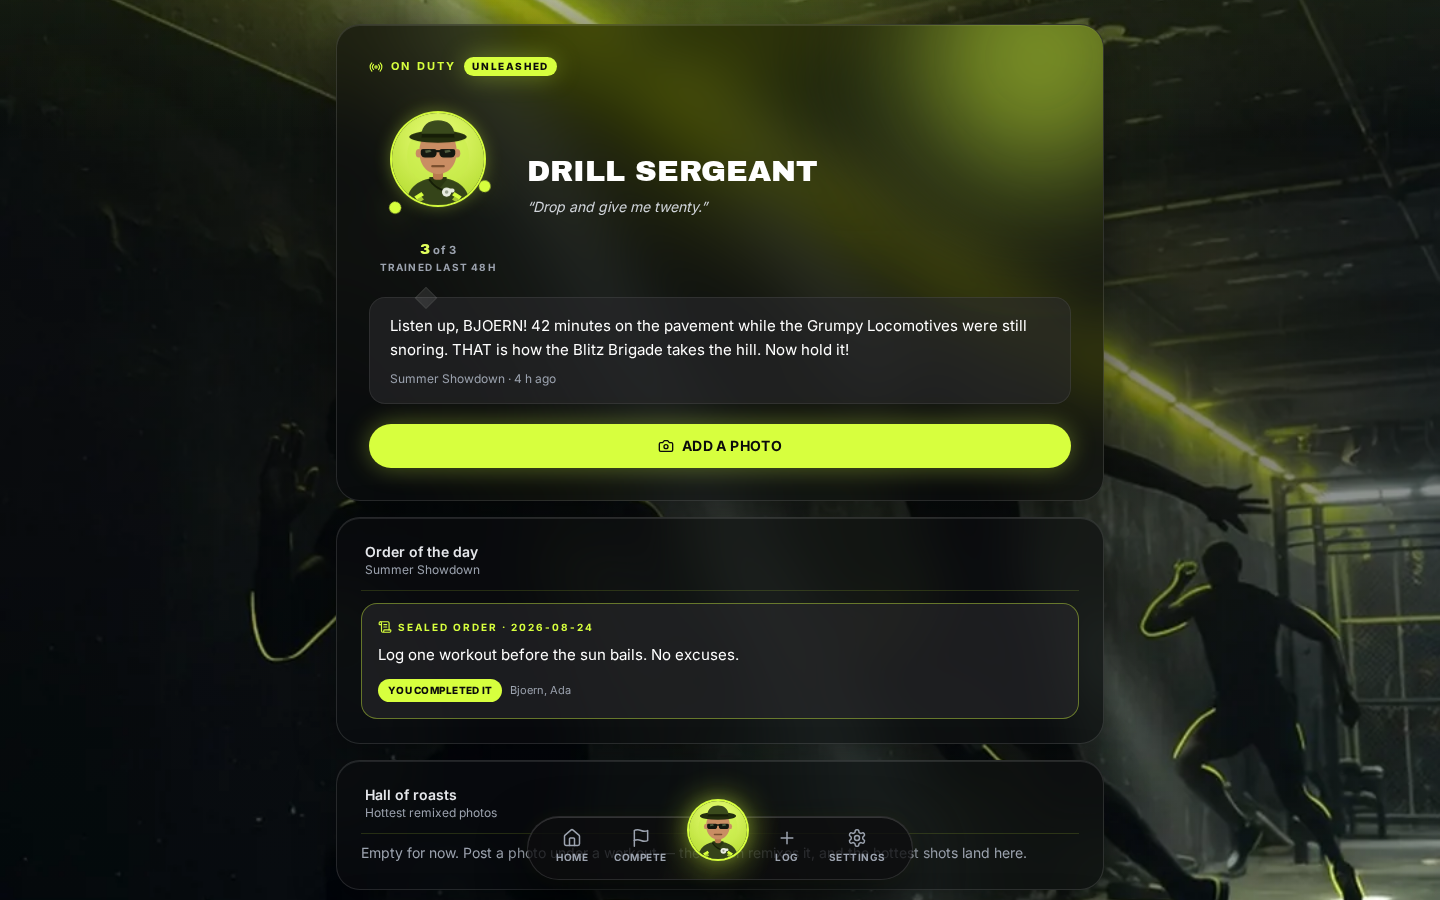
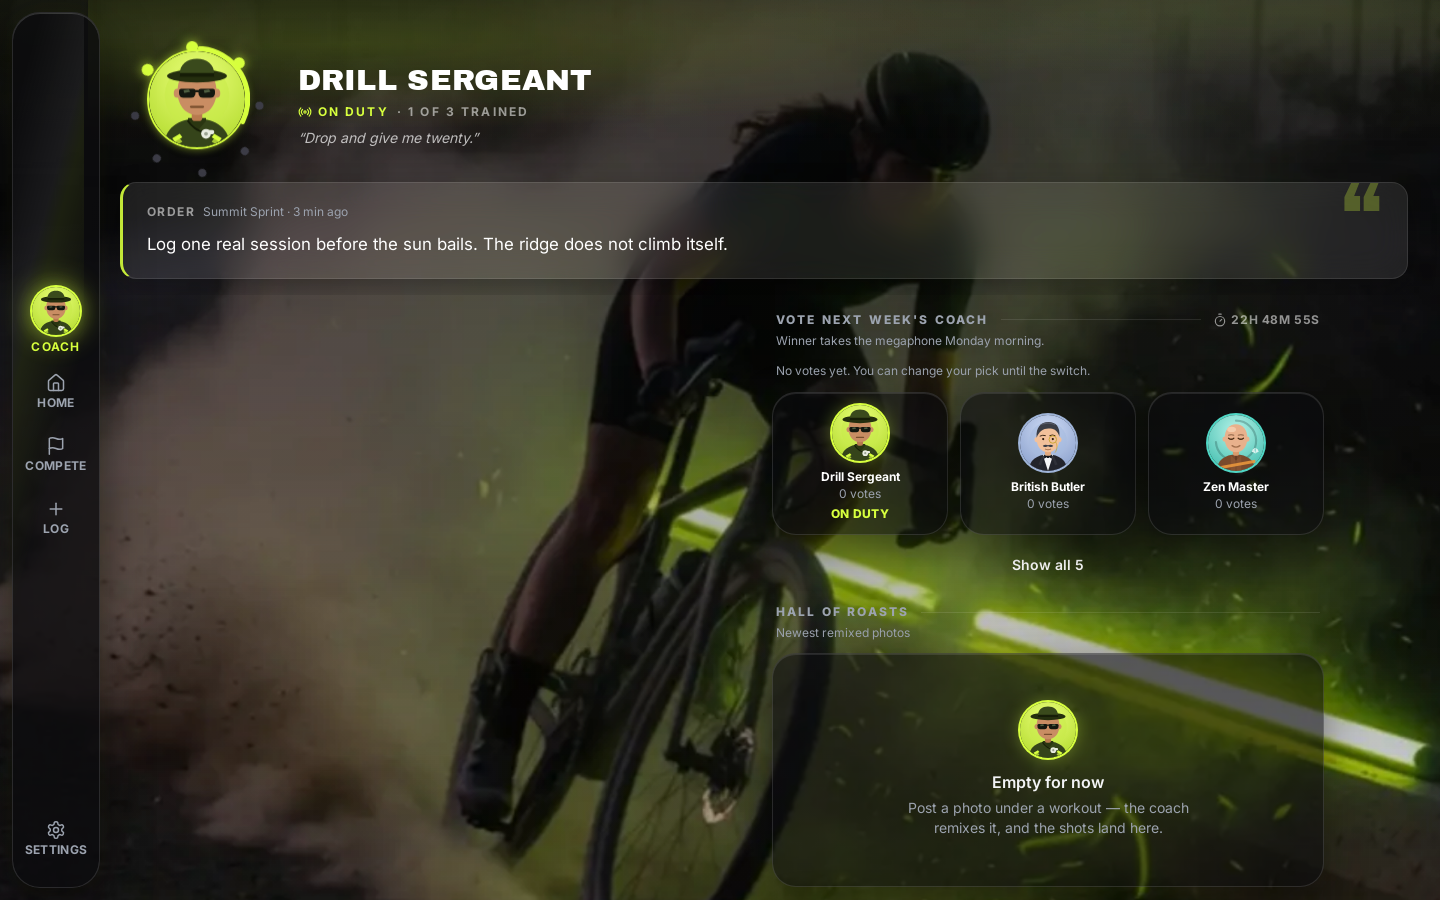
docs: rewrite README around killer features and fresh screenshots
Lead with coach, Expedition trail, and Home; add a three-command
try-it path with demo credentials; refresh preview images against the
current UI (including a Trail tab shot).

diff --git a/README.md b/README.md
@@ -1,42 +1,96 @@
 # Workout Challenge
 
 > ### ⚠ This is a fork
-> **Original project:** [vanalmsick/workout_challenge](https://github.com/vanalmsick/workout_challenge) — Copyright © 2025 [github.com/vanalmsick](https://github.com/vanalmsick).
-> This fork is maintained at [bandulix/workout_challenge](https://github.com/bandulix/workout_challenge).
+> **Original project:** [vanalmsick/workout_challenge](https://github.com/vanalmsick/workout_challenge) — Copyright © 2025 [github.com/vanalmsick](https://github.com/vanalmsick).  
+> This fork is maintained at [bandulix/workout_challenge](https://github.com/bandulix/workout_challenge).  
 > Both are licensed under the **Server Side Public License v1 (SSPL)** — see [LICENSE](LICENSE) and [NOTICE](NOTICE). What this fork changes: [CHANGELOG.md](CHANGELOG.md) and [below](#changes-from-the-original).
 >
 > 🤖 This fork was vibe-coded — designed and built with AI assistance, guided and reviewed by a human.
 
-An **AI Drill Instructor** comments on every workout, remixes your photos, and pings your lock screen. Self-hosted fitness rivalries on the metrics you choose — kilometres, minutes, calories, steps — imported from **Strava, Garmin, or Health Connect**. Native **Android app** and installable **PWA**. Your data stays on your server.
+# Your crew. Your coach. Your trail.
 
-- **A coach, not a spreadsheet.** Personas roast, cheer, and nudge — and always answer a photo with a remix. Stamp a workout (WTF!, GOAT, Oof, …). Order of the Day, Hall of Roasts, Legend Echoes (beat the mark, take the relic — 3 takeovers make it immortal; the photo *is* the relic), weekly coach vote in the last 72 hours before Monday. Owners can give the coach a daily briefing topic, and custom coaches get a portrait plus full-body photos so remixes look like them.
-- **Expedition.** Turn a challenge into a shared route: the crew's points move everyone along a themed trail (summit, ocean, desert, space, relay) with landmarks spread across the challenge dates and a finale on the last day. Rescue runs, base camps, treasure hunts, storm/rope weeks and shortcut votes keep seasons different; a postcard and one-tap rematch close them.
-- **Home that moves you.** One named rival and what would close the gap, a private comeback note when your week goes quiet (never a public call-out), and opt-in nudges from challenge-mates.
-- **Any watch, no lock-in.** Strava, Garmin Connect, or Apple Health / Google Health Connect. One source per athlete so nothing is counted twice.
-- **Your rules.** Custom goals, teams, caps, and a live leaderboard — 1 point per 1% of a goal.
-- **Yours to host.** Docker Compose. PWA on any phone; sideload APK for one-tap Health Connect.
+**Workout Challenge** is the self-hosted fitness rivalry that talks back.
+
+An **AI Drill Instructor** comments on every workout, remixes your photos, and pings your lock screen. Turn a challenge into a shared **Expedition** — the crew climbs a summit, crosses an ocean, or races a storm together. Sync **Strava, Garmin, or Health Connect**. Install the **PWA** or the **Android APK**. Your data stays on *your* server.
 
 <p align="center">
-  <a href="docs/imgs/preview-mobile-coach-dark.png"><img src="docs/imgs/preview-mobile-coach-dark.png" width="200" alt="Coach page — Workout Challenge"></a>
-  <a href="docs/imgs/preview-mobile-competition-dark.png"><img src="docs/imgs/preview-mobile-competition-dark.png" width="200" alt="Challenge feed — Workout Challenge"></a>
-  <a href="docs/imgs/preview-mobile-myspace-dark.png"><img src="docs/imgs/preview-mobile-myspace-dark.png" width="200" alt="Home — Workout Challenge"></a>
+  <a href="docs/imgs/preview-mobile-coach-dark.png"><img src="docs/imgs/preview-mobile-coach-dark.png" width="200" alt="Coach — Order of the Day, weekly vote, Hall of Roasts"></a>
+  <a href="docs/imgs/preview-mobile-trail-dark.png"><img src="docs/imgs/preview-mobile-trail-dark.png" width="200" alt="Expedition Trail — shared route, crew faces, shortcut vote"></a>
+  <a href="docs/imgs/preview-mobile-myspace-dark.png"><img src="docs/imgs/preview-mobile-myspace-dark.png" width="200" alt="Home — season trail, Close the Gap, comeback bench"></a>
 </p>
-<p align="center"><i>Coach, challenge feed, and Home.</i></p>
+<p align="center"><i>Coach · Expedition Trail · Home</i></p>
 
-## Run it
+---
+
+## Killer features
+
+### 🗣 A coach, not a spreadsheet
+Personas roast, cheer, and nudge — Drill Sergeant, Roast Master, Zen, Butler, Cheerleader, or your own custom coach with portrait + full-body shots so remixes look like *them*. Stamp a workout (WTF!, GOAT, Oof…). **Order of the Day**, **Hall of Roasts**, **Legend Echoes** (beat the mark, take the relic — 3 takeovers make it immortal; the photo *is* the relic). Weekly coach vote in the last 72 hours before Monday. Owners can brief the coach with a daily topic.
+
+### 🗺 Expedition — the season is a route
+Flip *Expedition* on and the crew’s points move everyone along a themed trail (summit, ocean, desert, space, relay). Landmarks land on the calendar; the finale waits for the last day. Rescue runs, base camps, treasure hunts, storm/rope weeks, and shortcut votes keep seasons different. Close with a postcard and one-tap rematch.
+
+### 🏠 Home that moves you (without shaming you)
+One named rival and what would close the gap. A private comeback note when your week goes quiet — never a public call-out. Opt-in nudges from challenge-mates. Season-first Home puts the trail under your name.
+
+### ⌚ Any watch, no lock-in
+**Strava**, **Garmin Connect**, or **Apple Health / Google Health Connect**. One activity source per athlete so nothing is counted twice.
+
+### 📐 Your rules, your host
+Custom goals, teams, caps, live leaderboard — **1 point per 1% of a goal**. Docker Compose. PWA on any phone; sideload APK for one-tap Health Connect.
+
+<p align="center">
+  <a href="docs/imgs/preview-mobile-competition-dark.png"><img src="docs/imgs/preview-mobile-competition-dark.png" width="220" alt="Challenge feed with coach orders and Echo relics"></a>
+  <a href="docs/imgs/preview-competition-dark.png"><img src="docs/imgs/preview-competition-dark.png" width="420" alt="Desktop challenge — feed + expedition side by side"></a>
+</p>
+<p align="center"><i>Challenge feed · Desktop (feed + trail)</i></p>
+
+---
+
+## Try it in three commands
 
 ```bash
 git clone https://github.com/bandulix/workout_challenge.git
 cd workout_challenge
-cp .env.example .env    # SECRET_KEY, POSTGRES_PASSWORD, FLOWER_PASSWORD
-docker compose up -d    # pulls ghcr.io/bandulix/workout_challenge
+cp .env.example .env
 ```
 
-`FLOWER_PASSWORD` must differ from `SECRET_KEY`. In production set `MAIN_HOST` / `HOSTS` to your public **HTTPS** origin and `DEBUG=false`. Keep `APP_BIND=127.0.0.1` behind a TLS reverse proxy that redirects 80→443 and forwards `X-Forwarded-For` and `X-Forwarded-Proto` (throttles, HSTS and the HTTPS-only link flows key on them). The Android app also needs `https://localhost` in `HOSTS`. Migrations run at container start. Never run a reachable instance with `DEBUG=true` — it relaxes several security controls at once (the app logs a warning if you do).
+Set at least these in `.env` (generate a Django secret with the one-liner in `.env.example`):
 
-Update: `git pull && docker compose pull workoutchallenge && docker compose up -d`.
+```bash
+SECRET_KEY=…                 # required
+POSTGRES_PASSWORD=…          # required
+FLOWER_PASSWORD=…            # required, MUST differ from SECRET_KEY
+DEBUG=true                   # local try-out only — never on a public host
+APP_BIND=0.0.0.0
+APP_PORT=8080
+MAIN_HOST=http://localhost:8080
+HOSTS=http://localhost:8080,http://127.0.0.1:8080,https://localhost
+```
+
+```bash
+docker compose up -d
+# wait ~30s for migrations, then seed a demo challenge + workouts:
+docker compose exec workoutchallenge python manage.py add_dummy_data
+```
+
+Open **http://localhost:8080** and sign in:
+
+| Email | Password |
+| --- | --- |
+| `user1@admin.local` | `password` |
+| `user2@admin.local` | `password` |
+| `user3@admin.local` | `password` |
+
+First user is staff. Tap **Coach**, **Compete → Trail**, and **Home** to see the killer loop.
+
+> Production: set `DEBUG=false`, put a TLS reverse proxy in front (`APP_BIND=127.0.0.1`), and set `MAIN_HOST` / `HOSTS` to your public **HTTPS** origin (plus `https://localhost` for the Android app). Never leave a reachable instance on `DEBUG=true`.
+
+Update later: `git pull && docker compose pull workoutchallenge && docker compose up -d`.
 
 Image: [`ghcr.io/bandulix/workout_challenge`](https://github.com/bandulix/workout_challenge/pkgs/container/workout_challenge). The Docker Hub image `vanalmsick/workout_challenge` is the original app, not this fork.
+
+---
 
 ## Optional setup
 
@@ -46,7 +100,7 @@ Image: [`ghcr.io/bandulix/workout_challenge`](https://github.com/bandulix/workou
 
 **AI coach** — challenge owner: megaphone on the challenge page → pick a persona → activate. Any OpenAI-compatible LLM via `LLM_*` in `.env` (an image-capable model or a dedicated `LLM_IMAGE_*` model enables photo remixes). Push: Coach page → Enable coach pings.
 
-**Expedition** — challenge owner: Edit challenge → *Expedition* on, pick objective and theme ("Surprise me" rotates). Locked once the route has started; participants see it on the challenge's Trail tab.
+**Expedition** — challenge owner: Edit challenge → *Expedition* on, pick objective and theme ("Surprise me" rotates). Locked once the route has started; participants see it on the challenge’s **Trail** tab.
 
 **Strava** — [create an API app](https://www.strava.com/settings/api). Since June 2026 Strava requires a paid subscription for Standard-Tier API access; Health Connect needs no Strava at all.
 
@@ -66,15 +120,28 @@ Phones reach it at `MAIN_HOST/health` by default. In the Android app, Health Con
 
 Secrets at rest and backup notes: [docs/security-secrets-and-backups.md](docs/security-secrets-and-backups.md). Quick backups (DB + uploads): `scripts/backup.sh` — always before an upgrade.
 
-## Develop
+---
+
+## Develop / test the code
 
 ```bash
-cd src-backend && python manage.py test --settings=workout_challenge.test_settings   # backend suite
-cd src-backend && ruff check .                                                       # backend lint gate (ruff.toml)
-cd src-frontend && npm test && npx eslint src                                        # frontend tests + lint
+# Backend suite (SQLite + in-memory cache — no Docker required)
+cd src-backend && python manage.py test --settings=workout_challenge.test_settings
+cd src-backend && ruff check .
+
+# Frontend
+cd src-frontend && npm test && npx eslint src
 ```
 
-Backend migrations for `competition`, `workouts` and `custom_user` live in `src-backend/db_migrations/` (outside the runtime data volume so a named volume can't shadow them). CI gates every push on both suites and builds the Docker image + signed APK on release. Product direction for Expedition and the retention loop: [docs/expedition-product-roadmap.md](docs/expedition-product-roadmap.md).
+Backend migrations for `competition`, `workouts` and `custom_user` live in `src-backend/db_migrations/` (outside the runtime data volume so a named volume can’t shadow them). CI gates every push on both suites and builds the Docker image + signed APK on release. Product direction for Expedition and the retention loop: [docs/expedition-product-roadmap.md](docs/expedition-product-roadmap.md).
+
+Seed a richer local UI (coach + expedition + workouts) while developing with `DEBUG=true`:
+
+```bash
+cd src-backend && python manage.py migrate && python manage.py add_dummy_data
+```
+
+---
 
 ## Changes from the original
 
